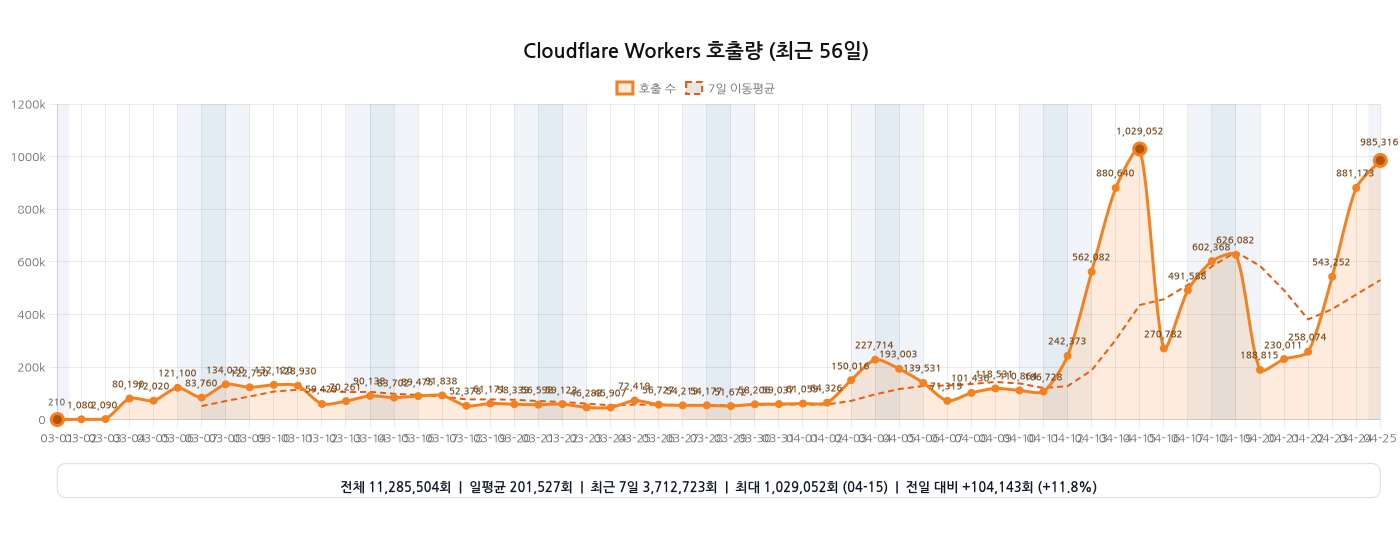
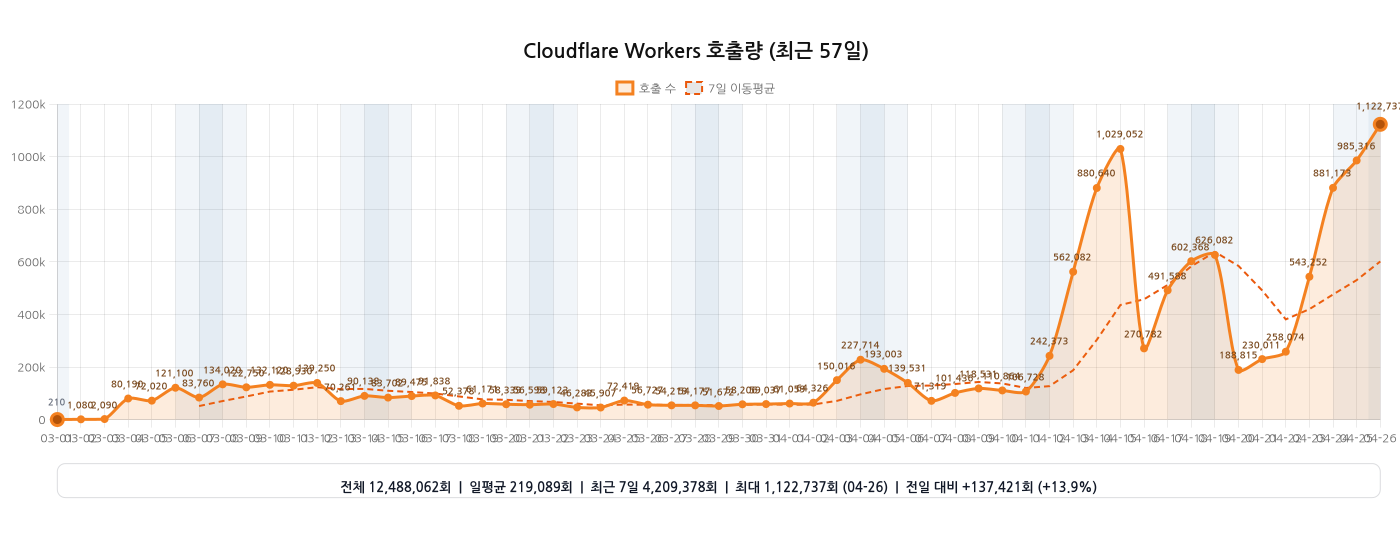
chore: 워커 호출량 그래프 자동 갱신

diff --git a/README.md b/README.md
@@ -18,11 +18,11 @@
 [![Coverage](https://github.com/hmmhmmhm/daiso-mcp/actions/workflows/coverage.yml/badge.svg?branch=main)](https://github.com/hmmhmmhm/daiso-mcp/actions/workflows/coverage.yml)
 
 <!-- WORKERS_INVOCATIONS_CHART:START -->
-<h3>Cloudflare Workers 호출량 (2026-03-01 ~ 2026-04-25, 56일)</h3>
+<h3>Cloudflare Workers 호출량 (2026-03-01 ~ 2026-04-26, 57일)</h3>
 
-<img src="./assets/analytics/workers-invocations.png?v=2026-04-25T15:34:29.020Z" alt="Cloudflare Workers 호출량 그래프 (2026-03-01 ~ 2026-04-25)" width="100%">
+<img src="./assets/analytics/workers-invocations.png?v=2026-04-26T15:34:52.671Z" alt="Cloudflare Workers 호출량 그래프 (2026-03-01 ~ 2026-04-26)" width="100%">
 
-<sub>기준 워커: <code>daiso-mcp</code> · 마지막 갱신: 2026-04-26 00:34 KST</sub>
+<sub>기준 워커: <code>daiso-mcp</code> · 마지막 갱신: 2026-04-27 00:34 KST</sub>
 
 <!-- WORKERS_INVOCATIONS_CHART:END -->
 
